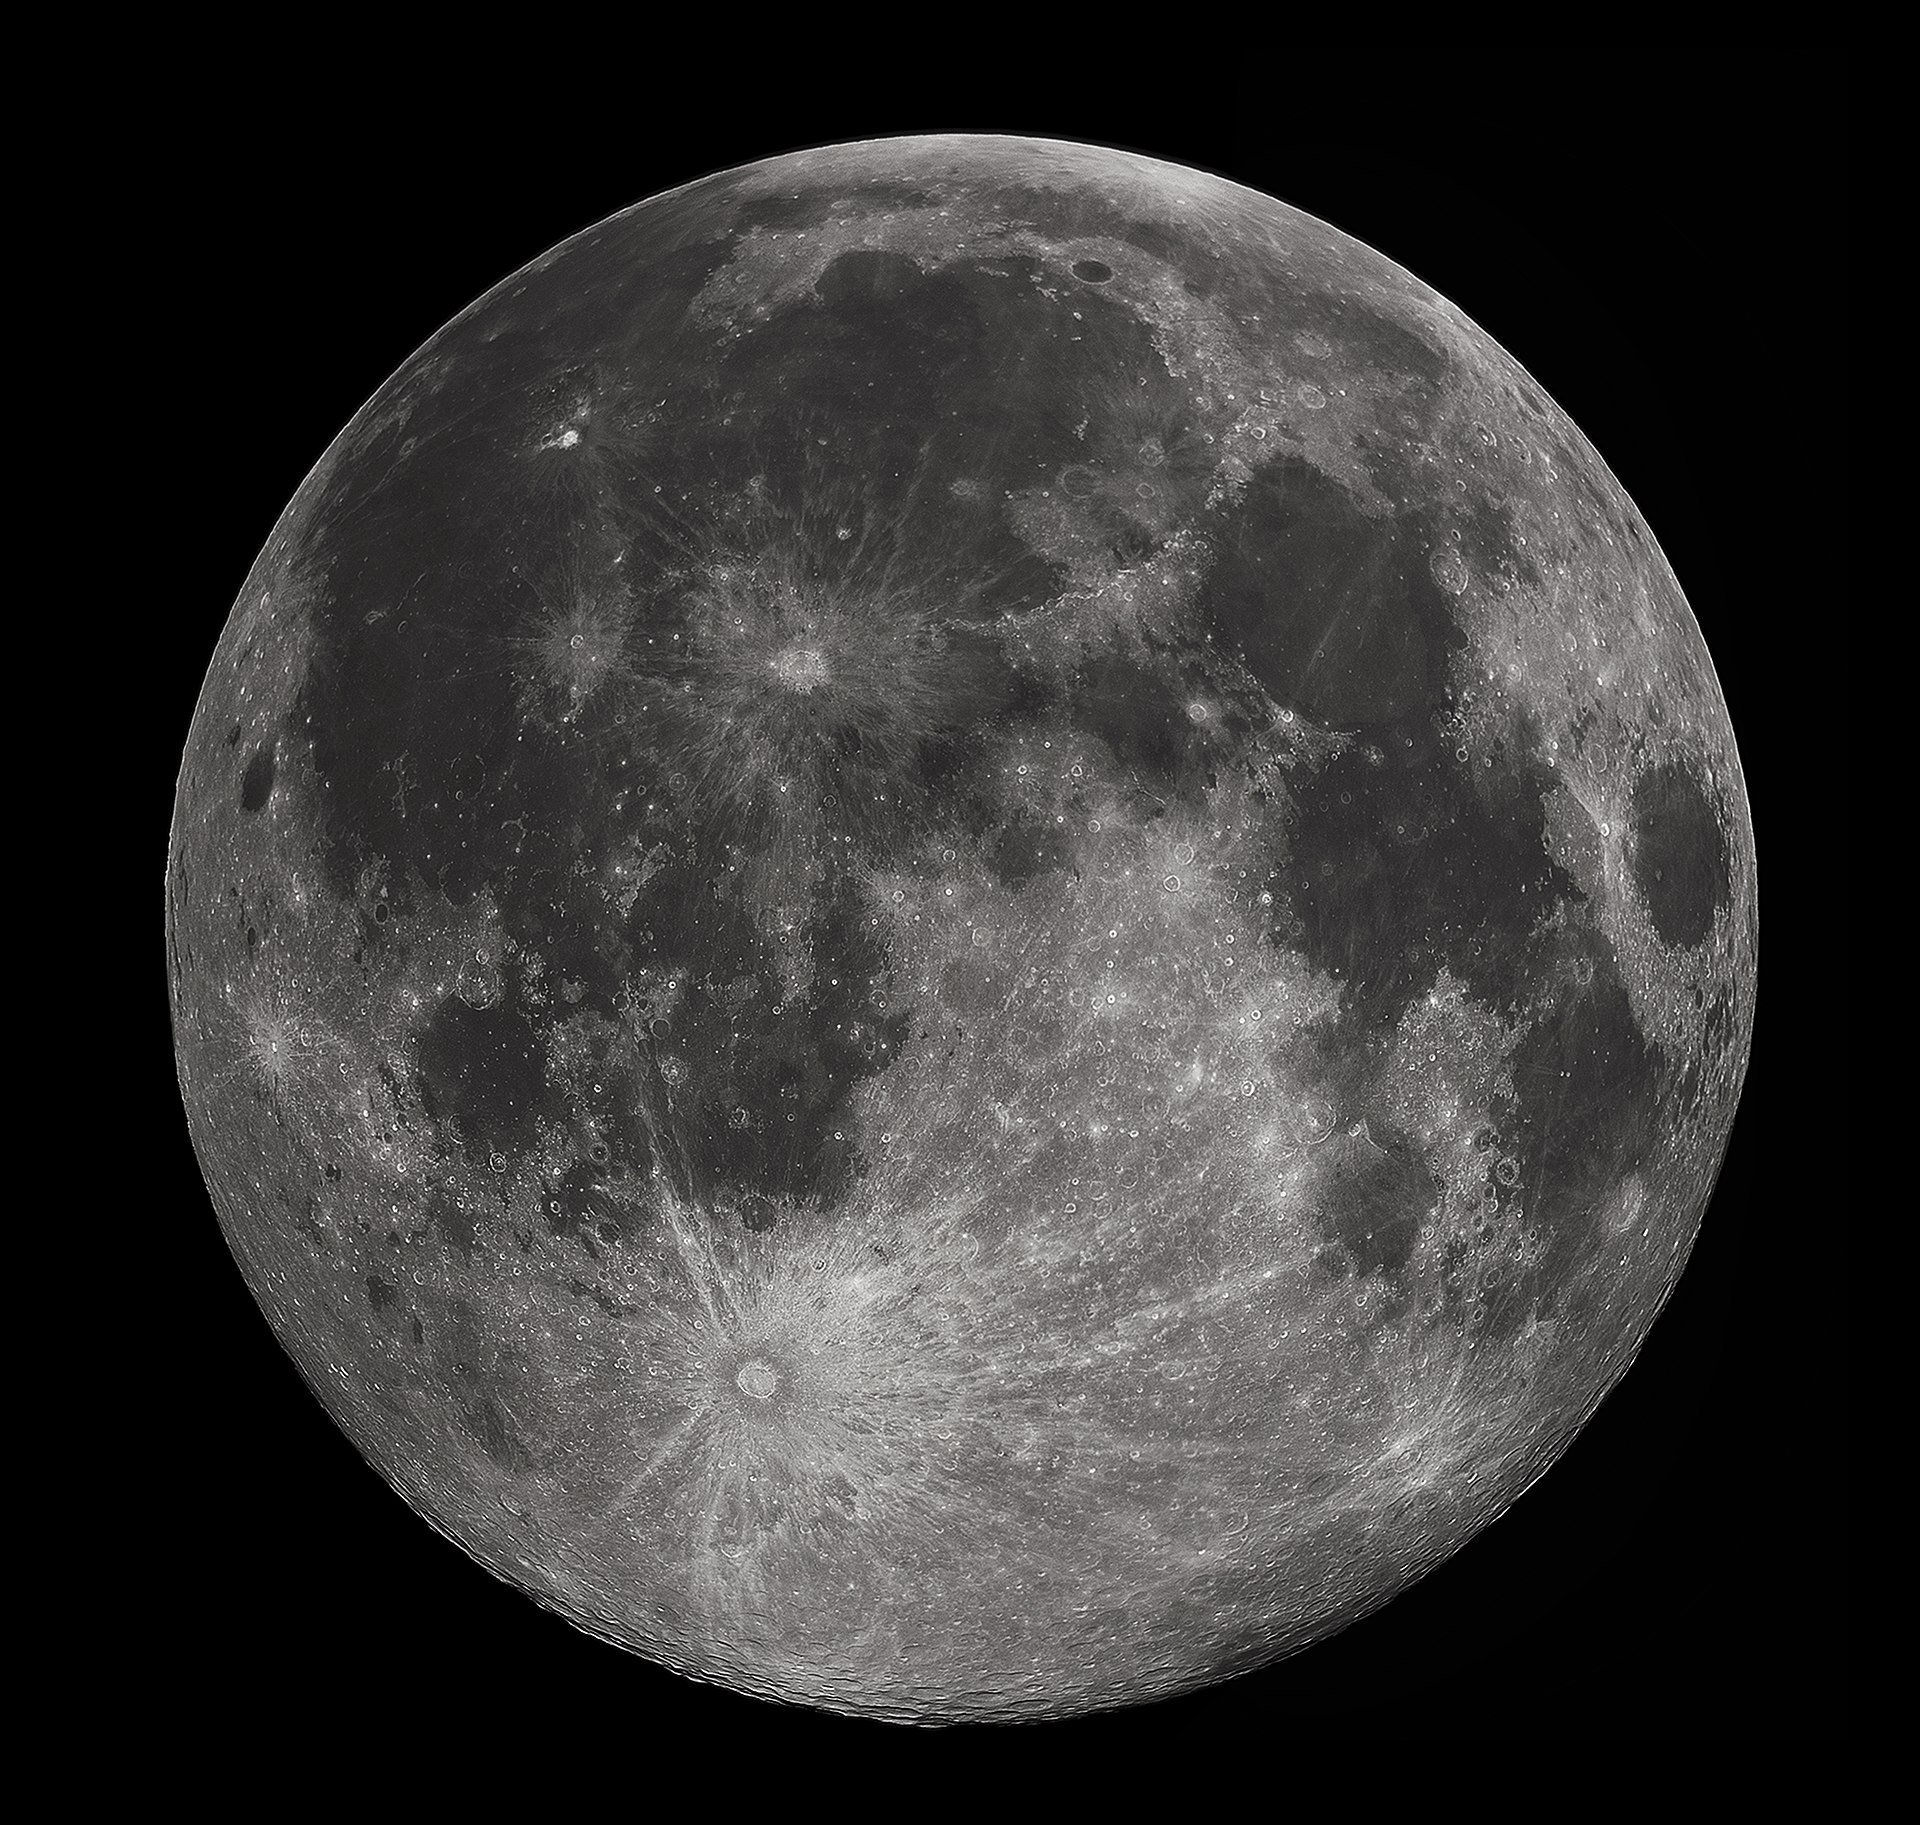
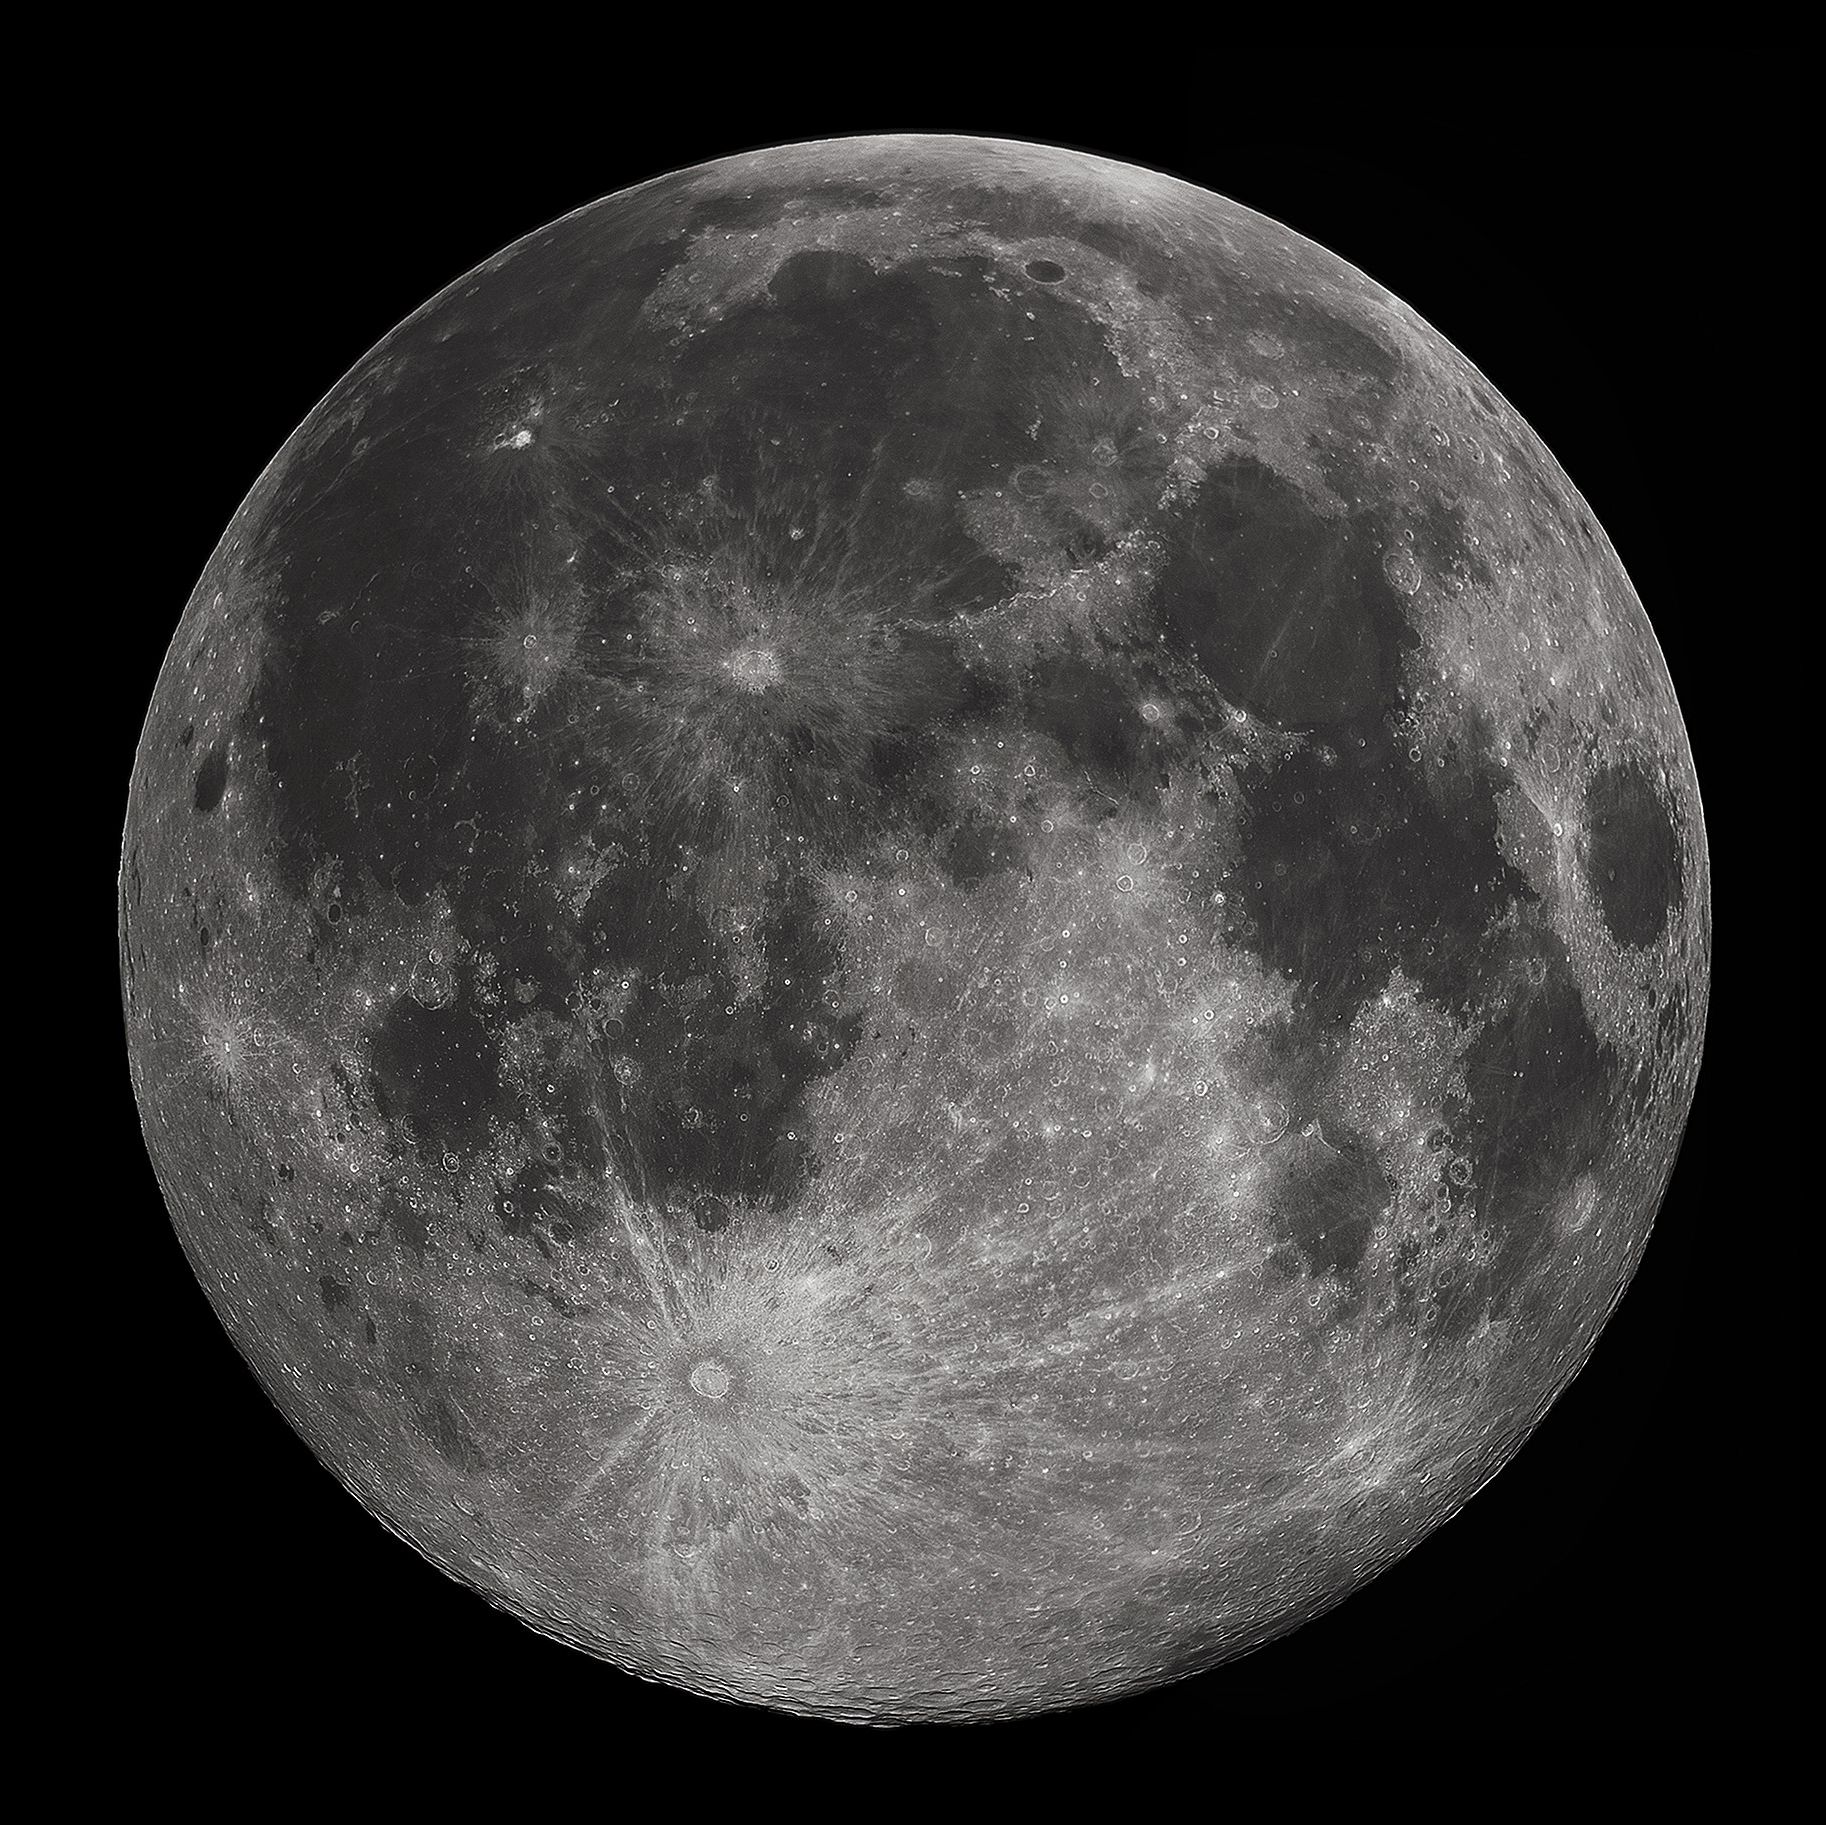
small fix on the image size

diff --git a/template/index.html b/template/index.html
@@ -103,7 +103,7 @@
 						<figcaption>Supermassive black hole</figcaption>
 					</figure>
 					<figure id="switch_contentC" class="figure">
-						<img src="assets/images/04.jpg" alt="Supermassive black hole" width="1920" height="1825">
+						<img src="assets/images/04.jpg" alt="Supermassive black hole" width="1825" height="1825">
 						<figcaption>Moon</figcaption>
 					</figure>
 				</section>
